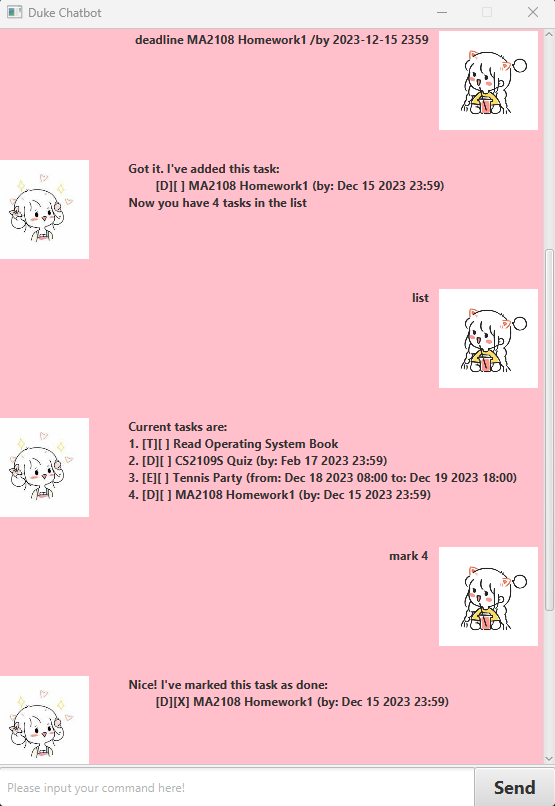
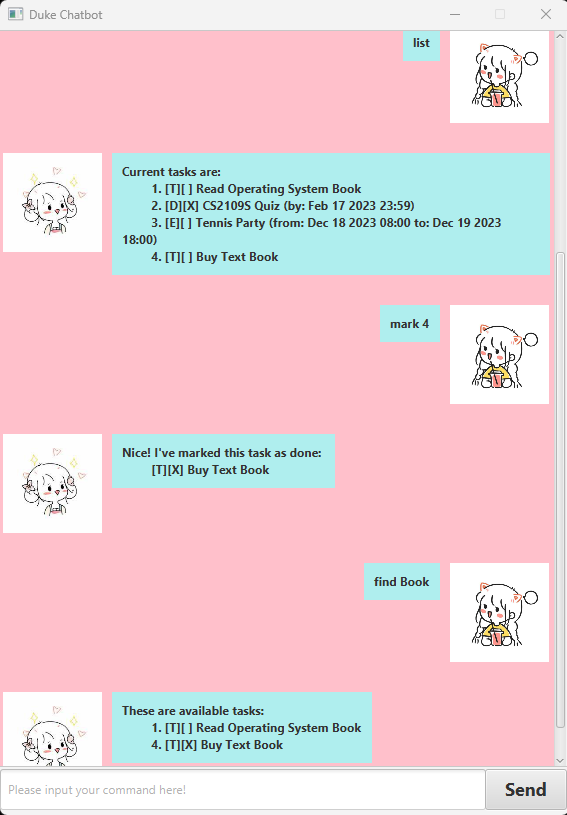
Finalize the features

Changed region(s): [[0.0, 0.0, 1.0, 0.8995], [0.0, 0.8375, 1.0, 1.0], [0.0, 0.4963, 0.9495, 0.6514]]

diff --git a/src/main/java/userinteraction/Ui.java b/src/main/java/userinteraction/Ui.java
@@ -37,6 +37,16 @@ public class Ui {
     }
 
     /**
+     * Display the help message at start.
+     *
+     * @return Returns the get help message.
+     */
+    public String printGetHelpMsg() {
+        String str = "Input 'help' to see all available commands.\n";
+        return str;
+    }
+
+    /**
      * Display adding task message.
      *
      * @param taskList Stores all tasks.
@@ -44,8 +54,8 @@ public class Ui {
      * @return The add task message being displayed.
      */
     public String printAddTaskMsg(TaskList taskList, Task task) {
-        String str = "\t Got it. I've added this task:\n  " + "\t\t "
-                + task.toString() + "\n\t Now you have "
+        String str = "Got it. I've added this task:\n  " + "\t "
+                + task.toString() + "\nNow you have "
                 + taskList.getSize() + " tasks in the list\n";
         return str;
     }
@@ -60,11 +70,11 @@ public class Ui {
     public String printMarkTaskMsg(boolean isMarked, Task task) {
         String str = "";
         if (isMarked) {
-            str = "\t Nice! I've marked this task as done: \n"
-                    + "\t\t " + task.toString() + "\n";
+            str = "Nice! I've marked this task as done: \n"
+                    + "\t " + task.toString() + "\n";
         } else {
-            str = "\t OK, I've marked this task as not done yet: \n"
-                    + "\t\t " + task.toString() + "\n";
+            str = "OK, I've marked this task as not done yet: \n"
+                    + "\t " + task.toString() + "\n";
         }
         return str;
     }
@@ -77,9 +87,9 @@ public class Ui {
      * @return The delete task message being displayed.
      */
     public String printDeleteTaskMsg(Task task, int size) {
-        String str = "\t Noted. I've removed this task:\n" + "\t\t "
-                + task.toString() + "\n\t Now you have "
-                + size + " tasks in the list.\n";
+        String str = "Noted. I've removed this task:\n" + "\t "
+                + task.toString() + "\nNow you have "
+                + size + " tasks in the list\n";
         return str;
     }
 
@@ -89,7 +99,7 @@ public class Ui {
      * @return The find task message being displayed.
      */
     public String printFindTaskMsg() {
-        String str = "\t Here are the matching tasks in your list:";
+        String str = "Here are the matching tasks in your list:";
         return str;
     }
 
@@ -99,7 +109,7 @@ public class Ui {
      * @return The invalid command message being displayed.
      */
     public String printWrongMsg() {
-        String str = "\t OOPS!!! I'm sorry, but I don't know what that means.\n";
+        String str = "OOPS!!! I'm sorry, but I don't know what that means.\n";
         return str;
     }
 
@@ -119,7 +129,7 @@ public class Ui {
      * @return The bye message.
      */
     public String printByeMsg() {
-        String byeMsg = "\t Bye. Hope to see you again soon!";
+        String byeMsg = "Bye. Hope to see you again soon!";
         return byeMsg;
     }
 }

diff --git a/src/main/java/storage/TaskList.java b/src/main/java/storage/TaskList.java
@@ -6,7 +6,6 @@ import dukeexception.DukeException;
 import task.Task;
 import userinteraction.Ui;
 
-
 /**
  * Task list class which stores all tasks.
  */
@@ -42,7 +41,7 @@ public class TaskList {
             throw new DukeException("\t OOPS!!! The format is invalid!\n");
         }
         assert inputLine.length == 1;
-        String str = "\t Current tasks are: \n";
+        String str = "Current tasks are: \n";
         for (int i = 0; i < tasks.size(); i++) {
             str += "\t " + (i + 1) + ". " + tasks.get(i).toString() + "\n";
         }
@@ -144,7 +143,7 @@ public class TaskList {
         }
         assert inputLine.length == 2;
         ui.printFindTaskMsg();
-        String str = "";
+        String str = "These are available tasks:\n";
         for (int i = 0; i < tasks.size(); i++) {
             if (tasks.get(i).getDescription().contains(inputLine[1])) {
                 str += "\t " + (i + 1) + ". " + tasks.get(i).toString() + "\n";

diff --git a/src/main/java/duke/DialogBox.java b/src/main/java/duke/DialogBox.java
@@ -15,8 +15,6 @@ import javafx.scene.image.ImageView;
 import javafx.scene.layout.HBox;
 import javafx.scene.layout.Region;
 
-
-
 /**
  * An example of a custom control using FXML.
  * This control represents a dialog box consisting of an ImageView to represent the speaker's face and a label
@@ -41,7 +39,7 @@ public class DialogBox extends HBox {
         dialog.setText(text);
         displayPicture.setImage(img);
         dialog.setMinHeight(Region.USE_PREF_SIZE);
-        dialog.setMinWidth(Region.USE_PREF_SIZE);
+
     }
 
     /**

diff --git a/src/main/java/duke/MainWindow.java b/src/main/java/duke/MainWindow.java
@@ -44,6 +44,9 @@ public class MainWindow extends AnchorPane {
         dialogContainer.getChildren().add(DialogBox.getDukeDialog(
                 duke.getUi().printWelcomeMsg(), dukeImage)
         );
+        dialogContainer.getChildren().add(DialogBox.getDukeDialog(
+                duke.getUi().printGetHelpMsg(), dukeImage)
+        );
         delay.setOnFinished(event -> Platform.exit());
     }
 
